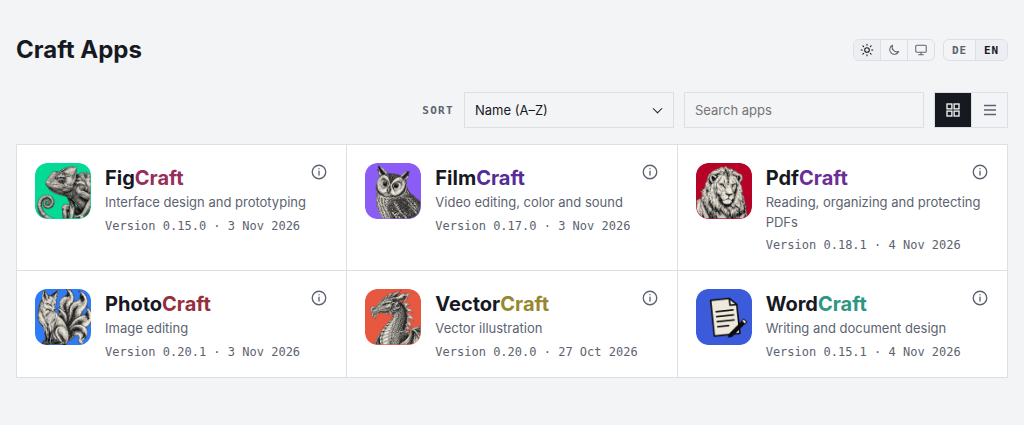
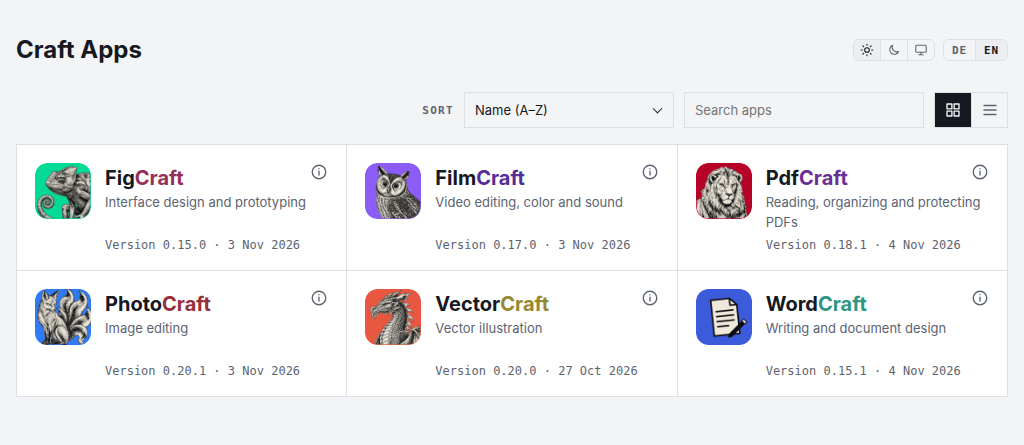
fix(ticket#40): give all tiles of the start page the same size and a one-line version
With four tiles side by side the version line didn't fit and the date
wrapped into a second line, and tiles had different heights depending on
their description. Tiles are now at least 325px wide – so at most three
side by side, still three at 1024px –, all rows are as high as the highest
tile, and the version line sits at the bottom of each tile in one line
("…" only as a safety net). The list stays as it was. Screenshots of the
start page retaken.

diff --git a/admin/src/overview/_tiles.scss b/admin/src/overview/_tiles.scss
@@ -1,9 +1,12 @@
 // The installed apps: tiles in a grid or, with the switch, a list with one row per app
 @use '../web/styles/shared';
 
+// Tiles at least as wide as their version line needs ("Version 0.20.0 · 27. Okt. 2026"), so
+// at most three side by side; all rows as high as the highest tile
 .grid {
   display: grid;
-  grid-template-columns: repeat(auto-fill, minmax(280px, 1fr));
+  grid-template-columns: repeat(auto-fill, minmax(min(325px, 100%), 1fr));
+  grid-auto-rows: 1fr;
   gap: 1px;
   background: var(--line);
   border: shared.$hairline;
@@ -55,6 +58,15 @@
   padding: 18px;
   color: inherit;
   text-decoration: none;
+
+  // Name, description and version one below the other, over the tile's whole height
+  > span:last-child {
+    display: flex;
+    flex: 1;
+    flex-direction: column;
+    align-self: stretch;
+    min-width: 0;
+  }
 }
 
 // Info in the corner of the tile: opens the details. Just the symbol, a frame only for the keyboard
@@ -109,14 +121,15 @@
   font-size: 13px;
 }
 
+// Always one line, at the bottom of the tile – in a row with a longer description it stays in
+// line with the others ("…" only if a version were very long)
 .meta {
-  margin-top: 6px;
+  margin-top: auto;
+  padding-top: 6px;
+  overflow: hidden;
   font: 12px var(--mono);
-
-  // On narrow tiles the whole date moves to the next line
-  time {
-    white-space: nowrap;
-  }
+  white-space: nowrap;
+  text-overflow: ellipsis;
 }
 
 .empty {
@@ -158,6 +171,7 @@
     grid-column: 2;
     grid-row: 1 / span 2;
     margin: 0;
+    padding: 0;
   }
 
   .app-info {
@@ -173,7 +187,7 @@
     }
 
     .meta {
-      margin-top: 4px;
+      padding-top: 4px;
     }
   }
 }
